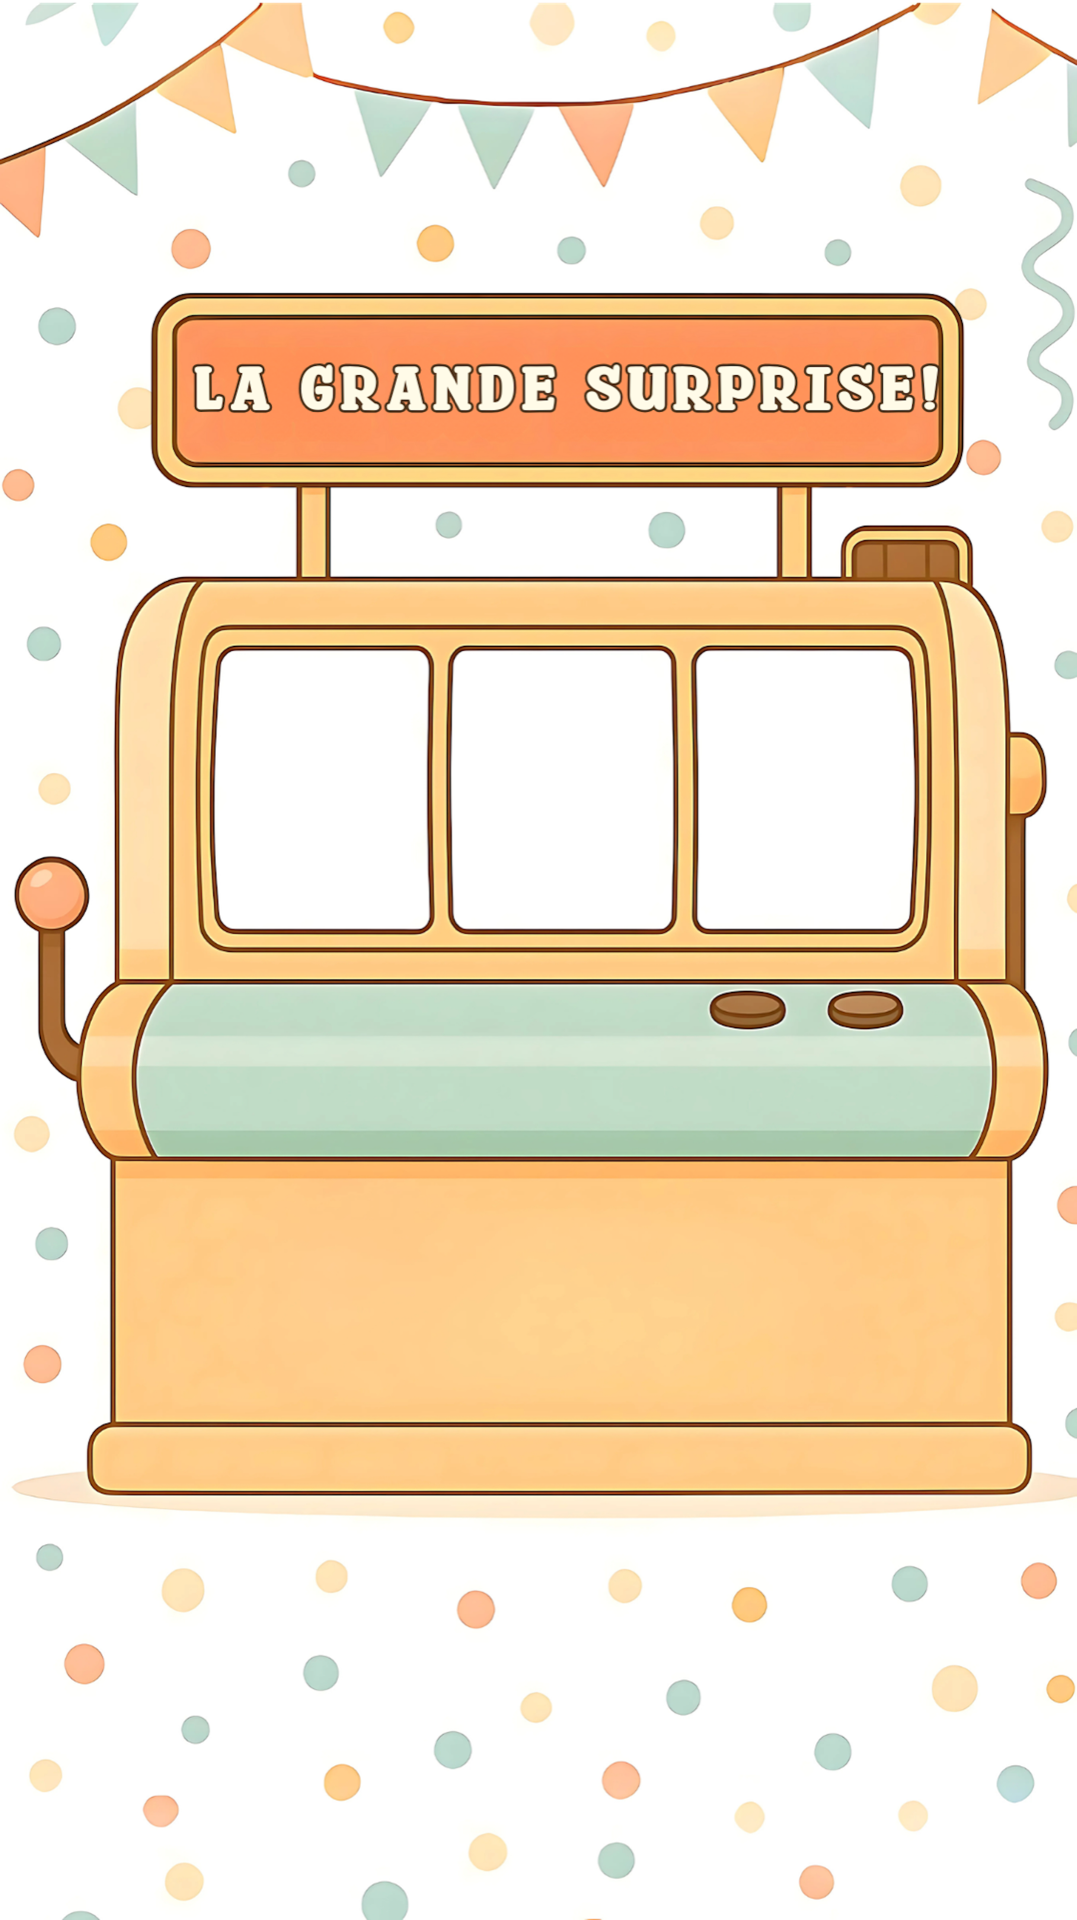
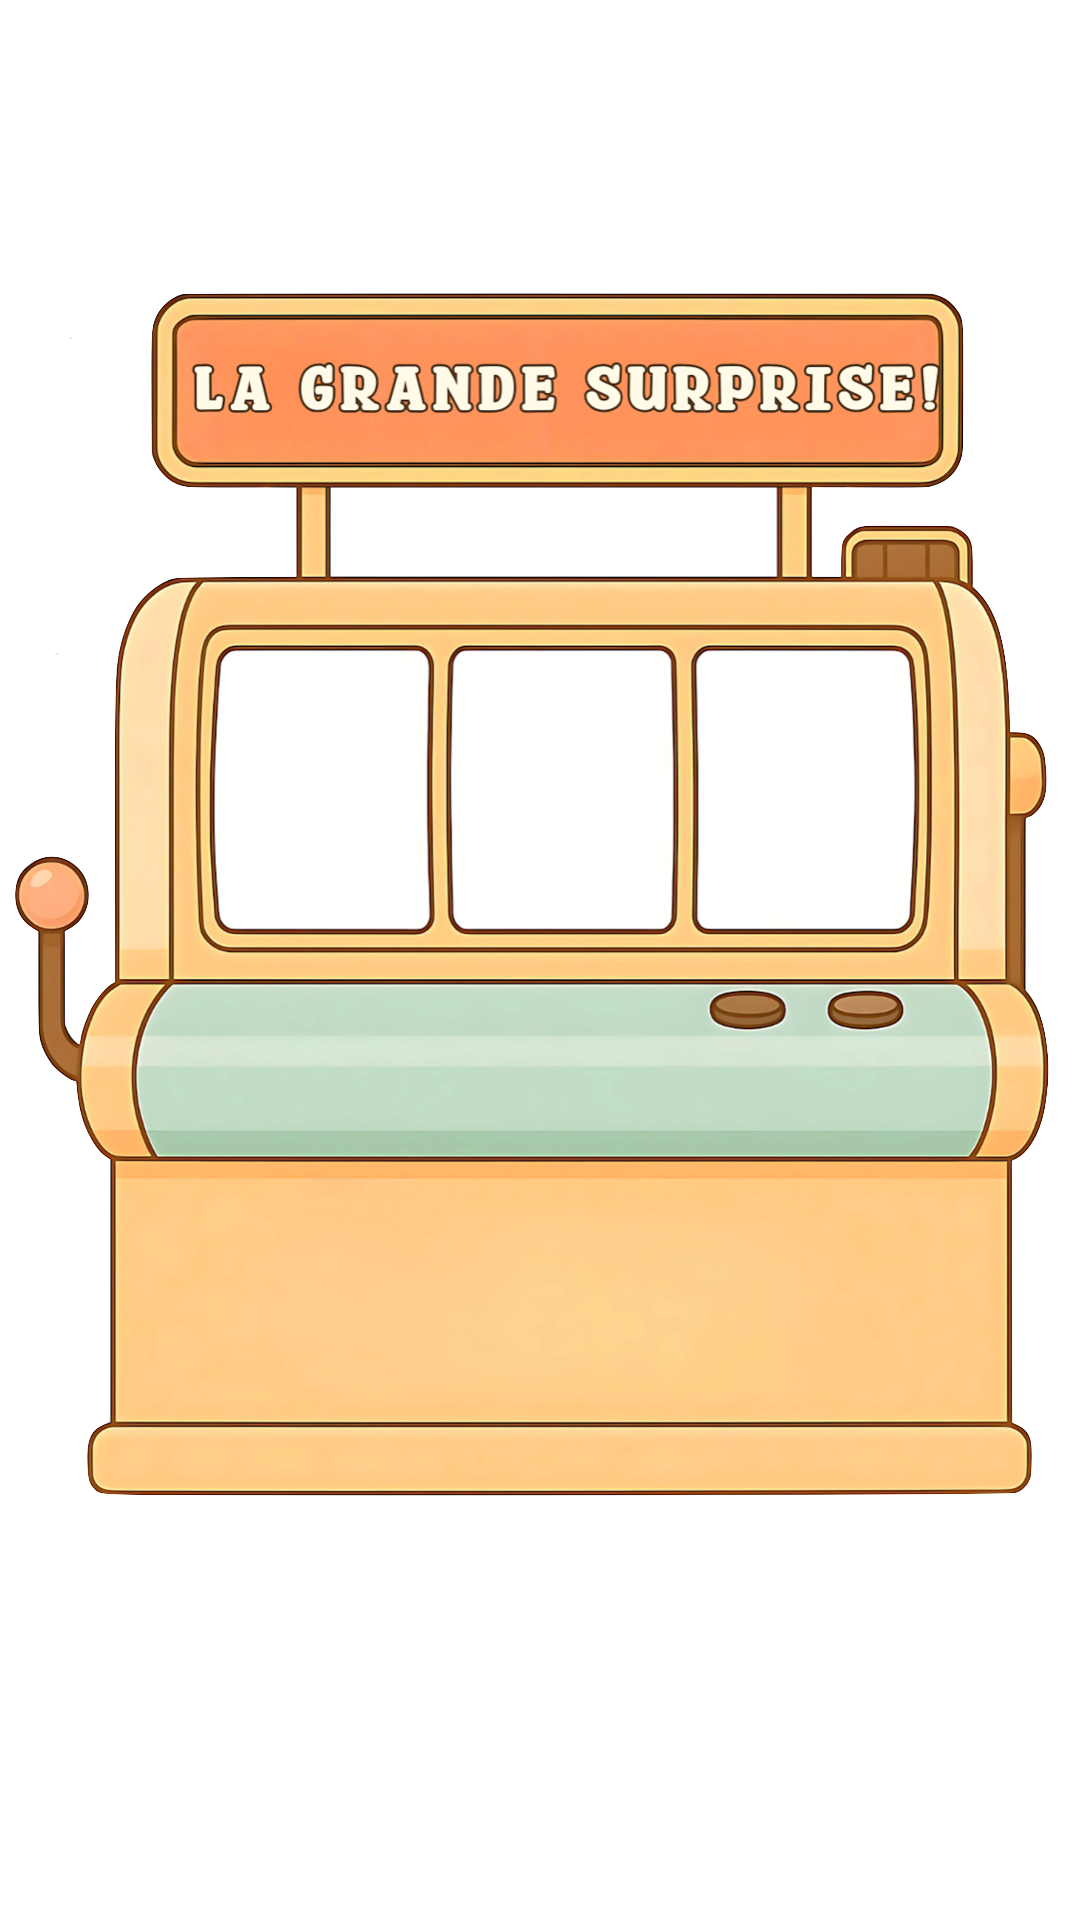
Add decorative bunting and new background
Introduce a new decorative party bunting and dotted landscape background. Adds img/background-2.png and switches LANGUAGE_ASSET_MAP to use it; updates localized background assets. Rename/adjust color CSS variables (party-*>landscape-bg/game-paper/dot-*) and add extensive CSS for .party-bunting, .frame-bunting, and slot-machine background dot patterns with responsive rules for .game-started and aspect-ratio >= 4/3. Insert bunting markup into the DOM and toggle body.class "game-started" when assets finish/preload to control layout changes and background behavior. Binary .DS_Store and several localized background PNGs were updated as well.

diff --git a/index.html b/index.html
@@ -35,10 +35,11 @@
         --spin-button-aspect: 2019 / 657;
         --instructions-max-width: 580px;
         --intro-text-color: #d9a637;
-        --party-cream: #fffaf0;
-        --party-mint: rgba(164, 201, 196, 0.54);
-        --party-peach: rgba(239, 141, 109, 0.48);
-        --party-gold: rgba(247, 199, 77, 0.42);
+        --landscape-bg: #fcf1de;
+        --game-paper: #fffdf7;
+        --dot-mint: rgba(164, 201, 196, 0.58);
+        --dot-peach: rgba(239, 141, 109, 0.5);
+        --dot-gold: rgba(247, 199, 77, 0.46);
       }
       html,
       body {
@@ -77,6 +78,122 @@
         justify-content: center;
         align-items: center;
         overflow: visible;
+      }
+      .slot-machine-container::before,
+      .slot-machine-container::after {
+        content: "";
+        position: absolute;
+        inset: 0;
+        pointer-events: none;
+      }
+      .slot-machine-container::before {
+        background:
+          radial-gradient(circle, var(--dot-mint) 0 8px, transparent 9px)
+            5% 6% / 132px 146px,
+          radial-gradient(circle, var(--dot-peach) 0 9px, transparent 10px)
+            38% 10% / 158px 172px,
+          radial-gradient(circle, var(--dot-gold) 0 8px, transparent 9px)
+            73% 7% / 146px 158px,
+          radial-gradient(circle, rgba(164, 201, 196, 0.42) 0 6px, transparent 7px)
+            22% 29% / 118px 132px,
+          radial-gradient(circle, rgba(247, 199, 77, 0.38) 0 7px, transparent 8px)
+            68% 36% / 136px 154px,
+          radial-gradient(circle, rgba(239, 141, 109, 0.42) 0 7px, transparent 8px)
+            18% 68% / 152px 166px,
+          radial-gradient(circle, rgba(164, 201, 196, 0.5) 0 9px, transparent 10px)
+            61% 84% / 146px 160px,
+          var(--game-paper);
+        z-index: 0;
+      }
+      .slot-machine-container::after {
+        display: none;
+      }
+      .party-bunting {
+        pointer-events: none;
+      }
+      .frame-bunting {
+        position: absolute;
+        top: 1.8%;
+        left: 50%;
+        width: 112%;
+        height: 14%;
+        transform: translateX(-50%);
+        z-index: 0;
+      }
+      .viewport-bunting {
+        display: none;
+      }
+      .party-bunting::before {
+        content: "";
+        position: absolute;
+        left: -4%;
+        right: -4%;
+        top: -46%;
+        height: 78%;
+        border-bottom: 2px solid #a45c2f;
+        border-radius: 0 0 50% 50% / 0 0 100% 100%;
+        filter: drop-shadow(0 1px 0 rgba(255, 255, 255, 0.58));
+      }
+      .party-bunting span {
+        position: absolute;
+        top: var(--flag-y, 18%);
+        left: var(--flag-x);
+        width: var(--flag-w, 8%);
+        height: var(--flag-h, 48%);
+        background: var(--flag-color, #f3bd75);
+        clip-path: polygon(0 0, 100% 0, 50% 100%);
+        opacity: 0.92;
+        transform: translateX(-50%) rotate(var(--flag-rotate, 0deg));
+        transform-origin: 50% 0;
+        filter: drop-shadow(0 2px 0 rgba(126, 84, 44, 0.12));
+      }
+      .party-bunting span:nth-child(1) {
+        --flag-x: 5%;
+        --flag-y: 25%;
+        --flag-color: #ffa978;
+        --flag-rotate: -8deg;
+      }
+      .party-bunting span:nth-child(2) {
+        --flag-x: 17%;
+        --flag-y: 12%;
+        --flag-color: #f3bd75;
+        --flag-rotate: -5deg;
+      }
+      .party-bunting span:nth-child(3) {
+        --flag-x: 29%;
+        --flag-y: 7%;
+        --flag-color: #b7d6cd;
+        --flag-rotate: -2deg;
+      }
+      .party-bunting span:nth-child(4) {
+        --flag-x: 41%;
+        --flag-y: 14%;
+        --flag-color: #ffa978;
+        --flag-rotate: 1deg;
+      }
+      .party-bunting span:nth-child(5) {
+        --flag-x: 53%;
+        --flag-y: 16%;
+        --flag-color: #f4c477;
+        --flag-rotate: 3deg;
+      }
+      .party-bunting span:nth-child(6) {
+        --flag-x: 65%;
+        --flag-y: 8%;
+        --flag-color: #b7d6cd;
+        --flag-rotate: 5deg;
+      }
+      .party-bunting span:nth-child(7) {
+        --flag-x: 77%;
+        --flag-y: 12%;
+        --flag-color: #f3bd75;
+        --flag-rotate: 8deg;
+      }
+      .party-bunting span:nth-child(8) {
+        --flag-x: 89%;
+        --flag-y: 24%;
+        --flag-color: #ffa978;
+        --flag-rotate: 10deg;
       }
       #landing-screen {
         position: absolute;
@@ -601,70 +718,56 @@
       }
       @media (min-aspect-ratio: 4 / 3) {
         body {
+          background: var(--landscape-bg);
+        }
+
+        body.game-started {
           background:
-            radial-gradient(
-                circle at 13% 18%,
-                var(--party-mint) 0 10px,
-                transparent 11px
-              )
-              0 0 / 220px 220px,
-            radial-gradient(
-                circle at 76% 28%,
-                var(--party-peach) 0 12px,
-                transparent 13px
-              )
-              0 0 / 260px 240px,
-            radial-gradient(
-                circle at 38% 72%,
-                var(--party-gold) 0 11px,
-                transparent 12px
-              )
-              0 0 / 235px 250px,
-            radial-gradient(
-                circle at 88% 82%,
-                rgba(164, 201, 196, 0.38) 0 8px,
-                transparent 9px
-              )
-              0 0 / 190px 205px,
-            linear-gradient(180deg, #fffdf7 0%, var(--party-cream) 100%);
+            radial-gradient(circle, var(--dot-mint) 0 10px, transparent 11px)
+              2vw 4vh / 260px 220px,
+            radial-gradient(circle, var(--dot-peach) 0 12px, transparent 13px)
+              9vw 8vh / 330px 260px,
+            radial-gradient(circle, var(--dot-gold) 0 11px, transparent 12px)
+              4vw 19vh / 300px 245px,
+            radial-gradient(circle, rgba(164, 201, 196, 0.38) 0 8px, transparent 9px)
+              12vw 27vh / 230px 210px,
+            var(--game-paper);
         }
 
-        body::before,
-        body::after {
-          content: "";
-          position: fixed;
-          top: 0;
-          bottom: 0;
-          width: max(14vw, 160px);
-          pointer-events: none;
-          opacity: 0.62;
-          background:
-            linear-gradient(135deg, transparent 38%, rgba(200, 145, 25, 0.32) 39% 41%, transparent 42%) 0 0 / 78px 74px,
-            linear-gradient(225deg, transparent 38%, rgba(200, 145, 25, 0.22) 39% 41%, transparent 42%) 0 0 / 78px 74px;
-          mask-image: linear-gradient(
-            to bottom,
-            rgba(0, 0, 0, 0.7),
-            rgba(0, 0, 0, 0) 34%
-          );
-          z-index: 0;
-        }
-
-        body::before {
-          left: 0;
-        }
-
-        body::after {
-          right: 0;
-          transform: scaleX(-1);
+        body.game-started::before {
+          content: none;
         }
 
         .aspect-container {
           width: min(46vw, calc(98vh * 9 / 16));
           max-width: 560px;
+          background: transparent;
+          box-shadow: none;
           z-index: 1;
-          box-shadow:
-            0 18px 48px rgba(126, 94, 79, 0.18),
-            0 0 0 10px rgba(255, 255, 255, 0.48);
+        }
+
+        .slot-machine-container::before,
+        .frame-bunting {
+          display: none;
+        }
+
+        .game-started .viewport-bunting {
+          display: block;
+        }
+
+        .viewport-bunting {
+          position: fixed;
+          top: 1.8vh;
+          left: 50%;
+          width: min(114vw, 1480px);
+          height: 15vh;
+          transform: translateX(-50%);
+          z-index: 0;
+        }
+
+        .viewport-bunting span {
+          width: 5.4%;
+          height: 54%;
         }
       }
       .confetti {
@@ -790,6 +893,16 @@
     </style>
   </head>
   <body>
+    <div class="party-bunting viewport-bunting" aria-hidden="true">
+      <span></span>
+      <span></span>
+      <span></span>
+      <span></span>
+      <span></span>
+      <span></span>
+      <span></span>
+      <span></span>
+    </div>
     <div class="aspect-container">
       <div
         id="landing-screen"
@@ -804,6 +917,16 @@
         </div>
       </div>
       <div class="slot-machine-container">
+        <div class="party-bunting frame-bunting" aria-hidden="true">
+          <span></span>
+          <span></span>
+          <span></span>
+          <span></span>
+          <span></span>
+          <span></span>
+          <span></span>
+          <span></span>
+        </div>
         <div class="slot-machine blur-background" id="slotMachine"></div>
         <div id="reel1" class="reel blur-background"></div>
         <div id="reel2" class="reel blur-background"></div>
@@ -1530,7 +1653,7 @@
 
       const LANGUAGE_ASSET_MAP = {
         en: {
-          background: "img/Assets/background.png",
+          background: "img/background-2.png",
           tapToSpin: "img/Assets/taptospin.png",
           instructions: "img/Assets/instructions.png",
           boyIcon: "img/Assets/boy.png",
@@ -1964,6 +2087,7 @@
             }
             startGameAssetPreload().then(() => {
               landingScreen.style.display = "none";
+              document.body.classList.add("game-started");
               landingScreen.setAttribute("aria-busy", "false");
               if (landingLoading) {
                 landingLoading.classList.remove("show");
@@ -1985,6 +2109,7 @@
             }
           });
         } else {
+          document.body.classList.add("game-started");
           startGameAssetPreload();
         }
         setupTextBoxDebug();